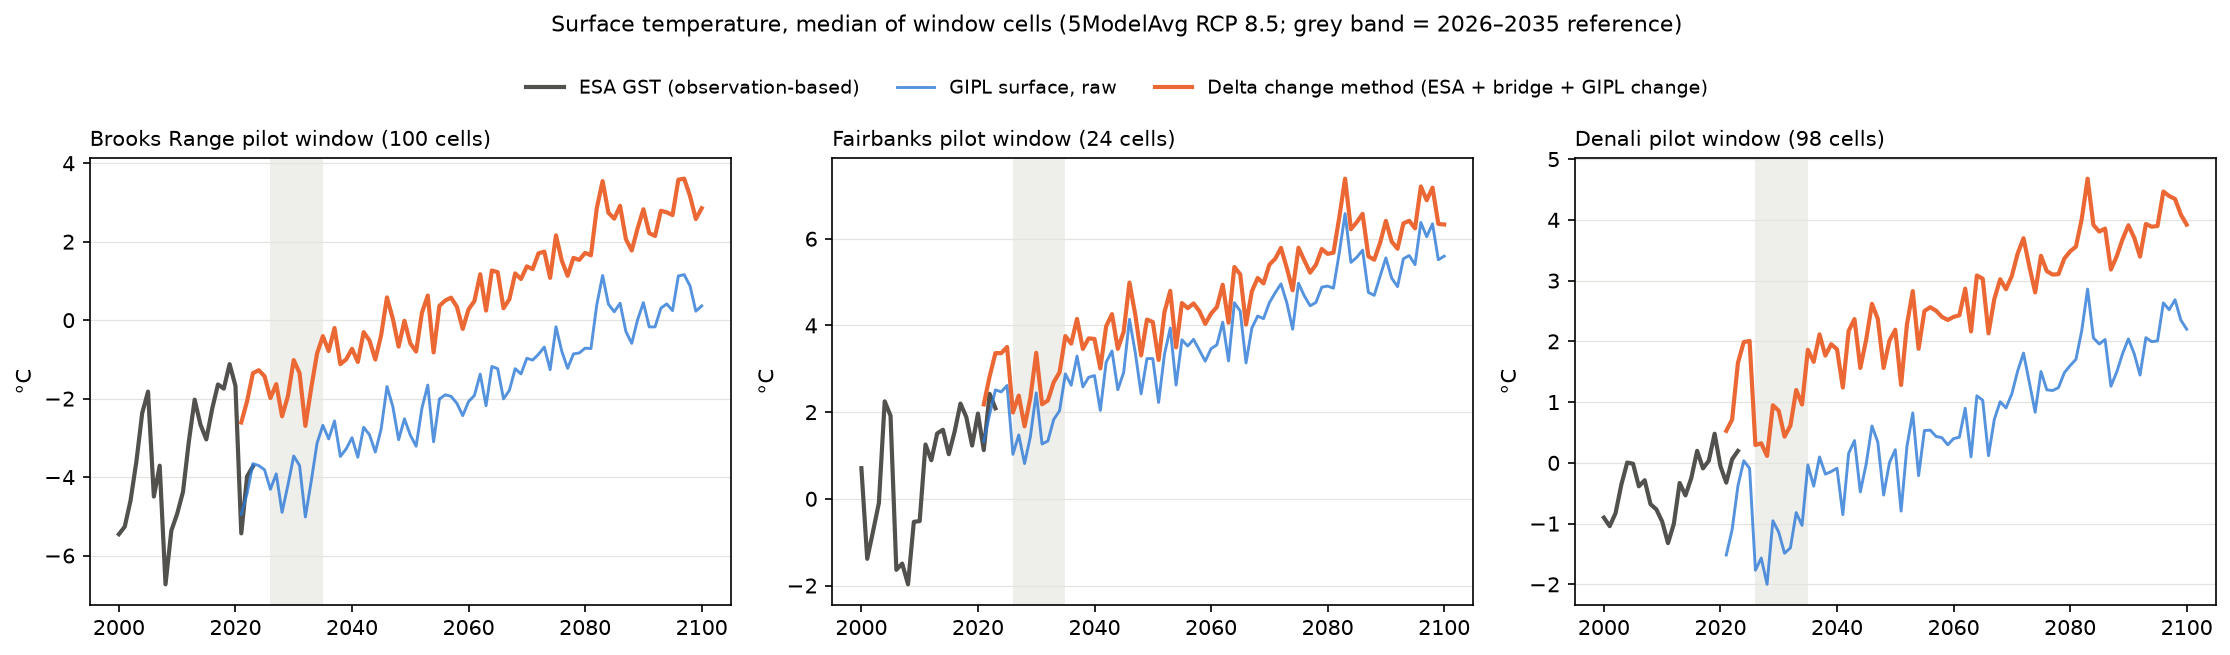
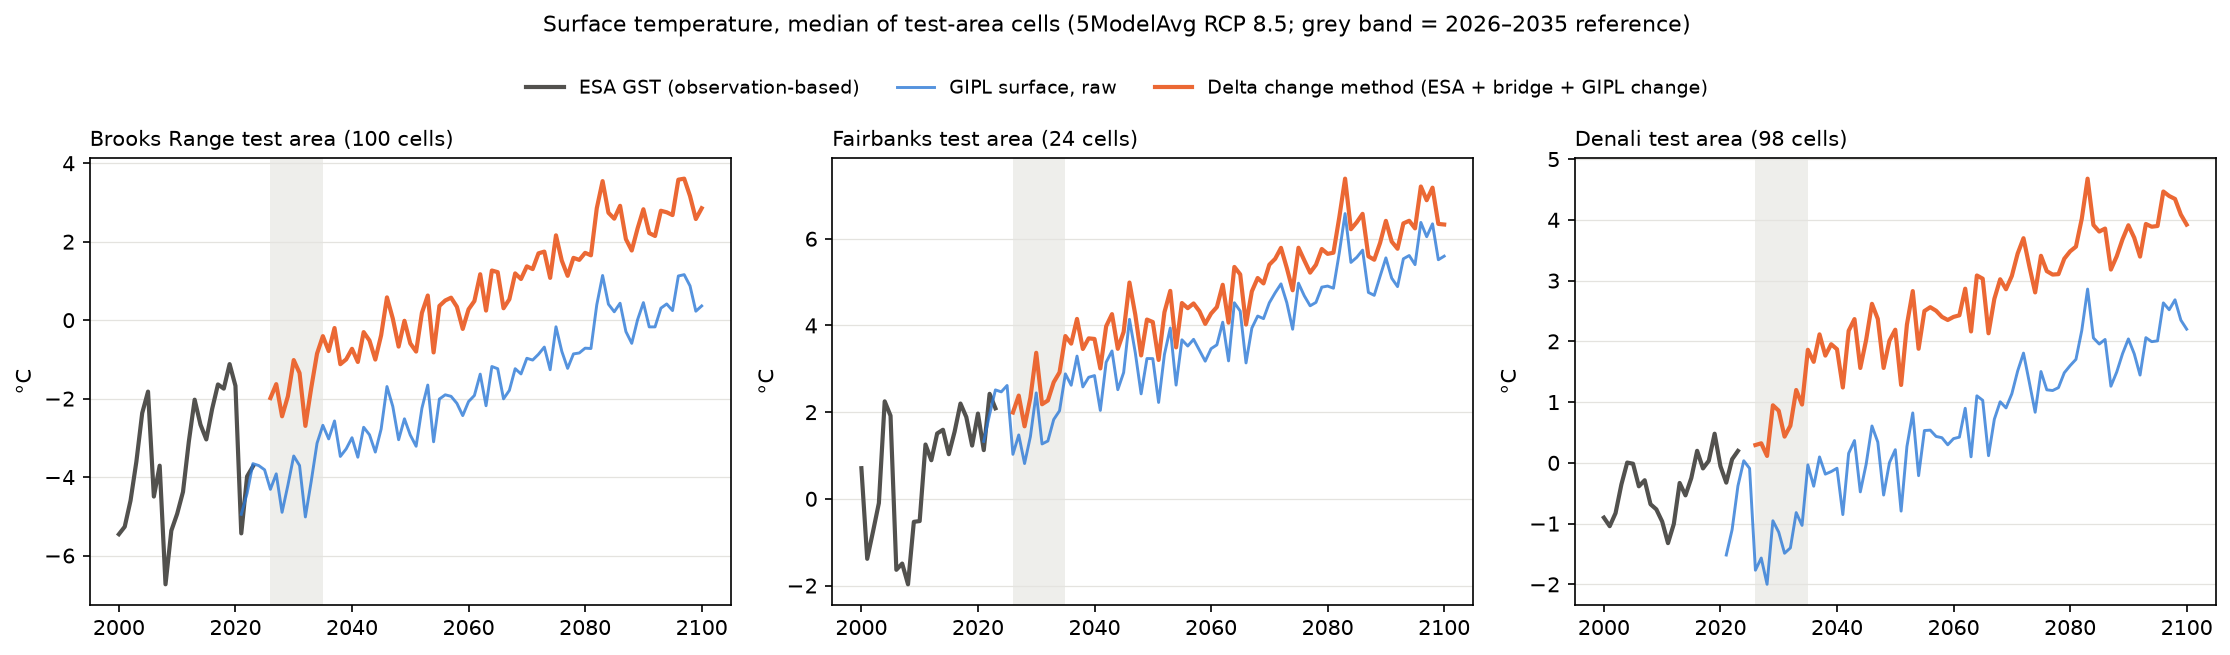
update gipl splicing doc

diff --git a/scripts/03_report/splice_schematic.py b/scripts/03_report/splice_schematic.py
@@ -1,0 +1,92 @@
+"""ESA_GIPL_SPLICING.md: schematic of the delta change method for one made-up cell (round numbers, same as the doc's
+worked example). ESA 2014-2023 level + bridge (expected warming to 2026-2035) = starting level for every later year;
+GIPL contributes only its change after 2026-2035; GIPL's own level is never used.
+Output: docs/figures/t3_delta_method_schematic.png
+"""
+import sys
+from pathlib import Path
+
+sys.path.insert(0, str(Path(__file__).resolve().parents[2] / "src"))
+
+import matplotlib
+
+from composite_indexing import config as C
+
+matplotlib.use("Agg")
+import matplotlib.pyplot as plt  # noqa: E402
+
+FIG = C.REPO / "docs/figures"
+INK, INK2, GRID = "#0b0b0b", "#52514e", "#e4e3df"
+ESA_C, GIPL_C, JOIN_C = "#52514e", "#2a78d6", "#eb6834"  # as in t3_splice_pilots.png
+ESA, BRIDGE = -2.0, 1.0
+GIPL = {(2026, 2035): -4.0, (2051, 2080): -1.5, (2081, 2100): -0.5}
+
+
+def fmt(v, sign=True):
+    return (f"{v:+.1f}" if sign else f"{v:.1f}").replace("-", "\u2212")
+
+
+def style(ax, ylim):
+    ax.axvspan(2021, 2026, color=GRID, alpha=0.7, lw=0)
+    ax.set_xlim(2010, 2100)
+    ax.set_ylim(*ylim)
+    ax.set_ylabel("°C")
+    ax.grid(axis="y", color=GRID, lw=0.6)
+    for s in ["top", "right"]:
+        ax.spines[s].set_visible(False)
+
+
+def change_arrow(ax, x, lo, hi, text):
+    ax.annotate("", xy=(x, hi), xytext=(x, lo), arrowprops=dict(arrowstyle="-|>", color=INK2, lw=1.2,
+                                                                 mutation_scale=12))
+    ax.text(x + 1.2, (lo + hi) / 2, text, ha="left", va="center", fontsize=9, color=INK2)
+
+
+def main():
+    base = GIPL[(2026, 2035)]
+    start = ESA + BRIDGE
+    fig, (top, bot) = plt.subplots(2, 1, figsize=(11, 8.6), sharex=True, gridspec_kw=dict(hspace=0.35))
+
+    # --- top: what we take from GIPL (its change only)
+    style(top, (-5.2, 0.6))
+    top.text(2023.5, -4.7, "GIPL start-up\n(not used)", ha="center", va="center", fontsize=8.5, color=INK2)
+    top.plot([2026, 2100], [base, base], color=GIPL_C, lw=1.2, ls=(0, (3, 3)), alpha=0.8)
+    for (y0, y1), v in GIPL.items():
+        top.plot([y0, y1], [v, v], color=GIPL_C, lw=5, solid_capstyle="butt")
+        top.text((y0 + y1) / 2, v + 0.2, f"{fmt(v)} °C", ha="center", va="bottom", fontsize=9, color=INK2)
+        if (y0, y1) != (2026, 2035):
+            change_arrow(top, y0 + 3, base, v, f"GIPL change\n{fmt(v - base)} °C")
+    top.text(2101, base, "GIPL's own 2026–2035\nlevel: NOT used", ha="left", va="center", fontsize=9, color=INK)
+    top.set_title("1. What we take from GIPL: only how much it warms after 2026–2035 (its levels are not used)",
+                  loc="left", fontsize=10.5)
+
+    # --- bottom: the joined record, built from ESA
+    style(bot, (-2.9, 3.4))
+    bot.plot([2014, 2023], [ESA, ESA], color=ESA_C, lw=5, solid_capstyle="butt")
+    bot.text(2018.5, ESA - 0.2, f"ESA 2014–2023\n{fmt(ESA)} °C", ha="center", va="top", fontsize=9, color=INK)
+    bot.annotate("", xy=(2026, start), xytext=(2023, ESA),
+                 arrowprops=dict(arrowstyle="-|>", color=INK, lw=1.4, mutation_scale=14))
+    bot.text(2024.5, start + 0.35, f"+ bridge {fmt(BRIDGE)} °C\n(expected warming,\n2014–2023 → 2026–2035)",
+             ha="center", va="bottom", fontsize=9, color=INK)
+    bot.plot([2026, 2100], [start, start], color=JOIN_C, lw=1.2, ls=(0, (3, 3)))
+    bot.text(2101, start, f"ESA + bridge = {fmt(start)} °C:\nthe starting level for\nevery later year",
+             ha="left", va="center", fontsize=9, color=INK)
+    for (y0, y1), v in GIPL.items():
+        joined = start + (v - base)
+        bot.plot([y0, y1], [joined, joined], color=JOIN_C, lw=5, solid_capstyle="butt")
+        if (y0, y1) == (2026, 2035):
+            continue
+        ch = v - base
+        change_arrow(bot, y0 + 3, start, joined, f"+ GIPL change\n{fmt(ch)} °C (from panel 1)")
+        bot.text((y0 + y1) / 2, joined + 0.2,
+                 f"{fmt(ESA)} + {fmt(BRIDGE, False)} + {fmt(ch, False)} = {fmt(joined)} °C",
+                 ha="center", va="bottom", fontsize=9, color=INK, weight="bold")
+    bot.set_title("2. The joined record: start from ESA, add the bridge, then add GIPL's change", loc="left",
+                  fontsize=10.5)
+    fig.suptitle("Delta change method, one example cell (round numbers)", x=0.125, ha="left", fontsize=12, y=0.97)
+    fig.savefig(FIG / "t3_delta_method_schematic.png", dpi=150, bbox_inches="tight")
+    plt.close(fig)
+
+
+if __name__ == "__main__":
+    main()

diff --git a/scripts/02_tests/t3_surface_splice.py b/scripts/02_tests/t3_surface_splice.py
@@ -10,7 +10,7 @@ removing expected warming): (a) none; (b) one statewide median offset; (c) regio
 (d) change-only = ESA GST + (GIPL era - GIPL 2026-2035): GIPL contributes only its change ("delta change method").
 Recommended form (D25): ESA GST 2014-2023 + bridge + GIPL change, where bridge = model MAAT 2026-2035 - 2014-2023 (the
 warming between the ESA and GIPL reference periods, which GIPL cannot supply because of its start-up drift).
-Plus a pilot-window time series (ESA annual 2000-2023, GIPL raw, GIPL change-only joined).
+Plus a test-area (pilot-window) time series (ESA annual 2000-2023, GIPL raw, GIPL change-only joined).
 Outputs: <data>/results/t3/splice_*.csv; docs/figures/t3_splice_{map,dist,pilots}.png
 """
 import sys
@@ -150,13 +150,14 @@ def plot_pilots():
         ax.plot(esa.year, np.nanmedian(esa.GST.values[m], 0), color=INK2, lw=2, label="ESA GST (observation-based)")
         ax.plot(years, np.nanmedian(g[m], 0), color="#2a78d6", lw=1.4, alpha=0.8, label="GIPL surface, raw")
         joined = e_rec[m, None] + bridge[m, None] + (g[m] - base[m, None])
+        joined[:, years < 2026] = np.nan  # GIPL start-up period (2021-2025): not used
         ax.plot(years, np.nanmedian(joined, 0), color="#eb6834", lw=2, label="Delta change method (ESA + bridge + GIPL change)")
         ax.axvspan(2026, 2035, color="#e4e3df", alpha=0.6, lw=0)
-        ax.set_title(f"{label} pilot window ({int(m.sum())} cells)", loc="left", fontsize=10)
+        ax.set_title(f"{label} test area ({int(m.sum())} cells)", loc="left", fontsize=10)
         ax.set_ylabel("°C")
     h, l = axs[0].get_legend_handles_labels()
     fig.legend(h, l, frameon=False, fontsize=9, loc="upper center", ncol=3, bbox_to_anchor=(0.5, 1.0))
-    fig.suptitle("Surface temperature, median of window cells (5ModelAvg RCP 8.5; grey band = 2026–2035 reference)",
+    fig.suptitle("Surface temperature, median of test-area cells (5ModelAvg RCP 8.5; grey band = 2026–2035 reference)",
                  fontsize=10.5, y=1.08)
     fig.tight_layout()
     fig.savefig(FIG / "t3_splice_pilots.png", dpi=150, bbox_inches="tight")

diff --git a/scripts/02_tests/t3_esa_gipl_continuity.py b/scripts/02_tests/t3_esa_gipl_continuity.py
@@ -137,7 +137,7 @@ def main():
     handles = [plt.Line2D([], [], color=ESA_C, lw=2, label="ESA CCI v5 (2000–2023)")] + [
         plt.Line2D([], [], color=c, lw=2, label=f"GIPL 5ModelAvg {s}") for s, c in RCP_C.items()]
     fig.legend(handles=handles, loc="upper center", ncol=3, frameon=False, bbox_to_anchor=(0.5, 1.0))
-    fig.text(0.5, -0.01, "Lines: median of the 100 cells in each 10 × 10 km window; bands: 10th–90th percentile.",
+    fig.text(0.5, -0.01, "Lines: median of the 100 cells in each 10 × 10 km test area; bands: 10th–90th percentile.",
              ha="center", color=INK2, fontsize=8)
     fig.tight_layout(rect=(0, 0, 1, 0.97))
     fig.savefig(FIG / "t3_continuity.png", dpi=150, bbox_inches="tight")

diff --git a/docs/ESA_GIPL_SPLICING.md b/docs/ESA_GIPL_SPLICING.md
@@ -17,7 +17,13 @@ fixes that cell by cell.
 - **Offset:** the difference between two datasets for the same place (GIPL − ESA).
 - **Expected warming:** the air warming that the climate models project between two periods. When the two datasets
   describe different years, part of their difference is simply climate change, not disagreement.
-- **Start-up drift:** a model's first years after it starts can drift as it settles in, before it is usable.
+- **Excess offset:** the offset minus the expected warming, i.e. the real disagreement between the datasets
+  (section 2). It is a diagnostic only: the recommended method does not use it.
+- **Bridge:** the expected warming from ESA's last decade (2014–2023) to GIPL's reference decade (2026–2035), about
+  +1 °C. It is the same number as the expected warming in section 2, used to carry ESA's level forward to GIPL's
+  reference decade, and it applies to every future year.
+- **Start-up period:** a model's first years after it starts, while it is still settling in; they do not behave like
+  the rest of the run and are not used.
 - **Spearman ρ:** whether two maps rank places in the same order, from −1 to +1 (see [CORRELATION.md](CORRELATION.md)).
 - **Delta change method:** future = today's observed level + the change the model projects. The model contributes
   only its change, not its level.
@@ -35,31 +41,65 @@ Cells: everywhere ESA shows permafrost and GIPL behaves normally (≈ 724,000 ce
 
 ---
 
-## 1. GIPL needs a few years to settle, and starts colder than ESA
+## 1. GIPL's first five years (2021–2025) are not usable
 
-![ESA CCI and GIPL at three pilot windows](figures/t3_continuity.png)
+![ESA CCI and GIPL at three test areas](figures/t3_continuity.png)
 
-Medians of 100 cells in each of three 10 × 10 km pilot windows (Brooks Range, Fairbanks, Denali).
-- **Start-up drift:** GIPL's first ~5 years drift strongly (Denali, 1 m: −4.4 °C in 2021 to about −1 °C by 2026).
-  We therefore use **2026–2035** as GIPL's reference period.
-- **Offset at 1 m:** where the two overlap (2021–2023), GIPL 1 m temperature is 1.4–1.8 °C colder than ESA.
+Medians of 100 cells in each of three 10 × 10 km test areas (Brooks Range, Fairbanks, Denali).
+- **At 1 m**, GIPL starts far from its later values and climbs for about five years (Denali, RCP 4.5: −4.4 °C in
+  2021, −1.1 °C in 2025).
+- **At the surface**, the first five years are out of line too: values rise until 2024–2025, then drop back by
+  0.6–1.9 °C in 2026 (Denali: −0.2 °C in 2025, −1.9 °C in 2026). From 2026 on, both depths follow a steady trend.
+- GIPL's set-up is not documented, so the cause is unknown. We treat **2021–2025 as a start-up period** and use
+  **2026–2035** as GIPL's reference period.
+- **This rules out a direct comparison with ESA:** the only years the two datasets share (2021–2023) fall inside
+  GIPL's start-up period. Section 2 compares them fairly instead: GIPL 2026–2035 against ESA 2014–2023, after allowing
+  for the warming expected between those periods.
 
 ## 2. GIPL and ESA levels do not match, and not in a fixable way
+
+### Comparing two different decades
+
+The two records share no usable years (section 1): ESA ends in 2023 and GIPL is usable from 2026. So we compare
+ESA's last decade (**2014–2023**) with GIPL's first usable decade (**2026–2035**). Their midpoints are 12 years apart.
+
+The climate warms over those 12 years. **Even if the two datasets agreed perfectly, GIPL's decade should be warmer than
+ESA's**, by about as much as the climate warmed in between. A straight comparison would mix two things: real
+disagreement between the datasets, and climate change between the two decades. To separate them, we estimate the
+warming between the decades and subtract it:
+
+> **disagreement ("excess offset") = (GIPL 2026–2035 − ESA 2014–2023) − expected warming**
+
+- **Expected warming:** for each cell, the air warming from 2014–2023 to 2026–2035 in SNAP's downscaled climate
+  projections (5-model average, same scenario). About **+1.0 °C** statewide; 80 % of cells fall between +0.9 and
+  +1.2 °C.
+- **Worked example (statewide median, RCP 8.5):** GIPL is 0.2 °C *colder* than ESA. It should be about 1.0 °C
+  *warmer*, so the disagreement is about **1.2 °C**.
+
+Why this is a fair adjustment:
+- **It only removes what climate change would produce.** It does not tune GIPL to match ESA.
+- **It is small and nearly the same everywhere**, so it moves all cells by about the same amount. It cannot create
+  the large cell-to-cell differences below, and it does not affect ρ, which compares the two maps as delivered.
+- **It assumes the ground surface warms about as much as the air** over these 12 years. That is not exact (snow and
+  vegetation sit in between), but over later decades GIPL's own surface warming stays within a few tenths of a degree
+  of air warming on average ([PTI.md](PTI.md), section 2). An error of ±0.3 °C would still leave GIPL 0.9–1.5 °C
+  colder than expected.
+- **Skipping the adjustment would hide most of the problem:** the raw gap (0.2 °C) looks small only because a decade
+  of warming happens to cancel most of GIPL's cold bias.
+
+### Result
 
 ![ESA vs GIPL, same cells](figures/t3_splice_scatter.png)
 
 ![Excess offset map and by region](figures/t3_splice_map.png)
 
-We compare GIPL 2026–2035 with ESA 2014–2023 and take out the ~1 °C of air warming the same climate models project
-between those periods. What is left is disagreement between the two datasets ("excess offset"):
-
-| Region | Cells | ESA vs GIPL, ρ | Expected warming | Excess offset, median | 10th – 90th percentile |
-|---|---|---|---|---|---|
-| Statewide | 724,326 | 0.85 | +1.0 °C | **−1.2 °C** | −2.8 to +0.5 °C |
-| Arctic | 317,000 | 0.82 | +1.1 °C | −1.2 °C | −3.0 to +0.6 °C |
-| Interior | 279,692 | **0.43** | +0.9 °C | −1.2 °C | −2.7 to +0.7 °C |
-| West | 101,947 | 0.75 | +1.0 °C | −1.4 °C | −2.4 to −0.2 °C |
-| South | 25,654 | **0.34** | +0.9 °C | −0.4 °C | −1.8 to +1.7 °C |
+| Region | Cells | ESA vs GIPL, ρ | GIPL − ESA, as delivered | Expected warming | Excess offset, median | 10th – 90th percentile |
+|---|---|---|---|---|---|---|
+| Statewide | 724,326 | 0.85 | −0.2 °C | +1.0 °C | **−1.2 °C** | −2.8 to +0.5 °C |
+| Arctic | 317,000 | 0.82 | 0.0 °C | +1.1 °C | −1.2 °C | −3.0 to +0.6 °C |
+| Interior | 279,692 | **0.43** | −0.3 °C | +0.9 °C | −1.2 °C | −2.7 to +0.7 °C |
+| West | 101,947 | 0.75 | −0.4 °C | +1.0 °C | −1.4 °C | −2.4 to −0.2 °C |
+| South | 25,654 | **0.34** | +0.5 °C | +0.9 °C | −0.4 °C | −1.8 to +1.7 °C |
 
 RCP 8.5 shown; RCP 4.5 is within 0.1 °C.
 - GIPL is about **1.2 °C colder** than ESA would lead us to expect.
@@ -68,20 +108,52 @@ RCP 8.5 shown; RCP 4.5 is within 0.1 °C.
 
 ## 3. Join methods compared
 
-The test: how big is the jump, cell by cell, between ESA's last decade and the joined value for 2026–2035, after
-allowing for expected warming? (90th percentile of cells, statewide, RCP 8.5.)
+To build one record from today into the future, GIPL's values have to be put on ESA's footing. We tried four ways:
 
-| Method | What it does | Jump at the join |
+| Method | What it does to each cell's GIPL values (RCP 8.5) |
+|---|---|
+| No correction | Uses GIPL's temperatures as delivered. |
+| Statewide offset | Adds the same number to every cell: GIPL's statewide median disagreement, **+1.2 °C**. |
+| Regional offsets | Adds one number per region, that region's median disagreement: **Arctic +1.2, Interior +1.2, West +1.35, South +0.35 °C**. |
+| Delta change method | Never uses GIPL's level. For each cell: (1) start from ESA's 2014–2023 level; (2) add the bridge (the expected warming from 2014–2023 to 2026–2035, ≈ +1 °C), giving the cell's estimated 2026–2035 level; (3) for any later year, add how much GIPL warms after 2026–2035. Steps 1–2 are the same for every year; only step 3 changes. |
+
+**The delta change method, step by step.** An example cell with round numbers: ESA −2.0 °C (2014–2023), bridge
++1.0 °C, and GIPL −4.0 °C in 2026–2035 and −1.5 °C in 2051–2080 (a change of +2.5 °C). Joined 2051–2080 value:
+−2.0 + 1.0 + 2.5 = **+1.5 °C**. GIPL's own −1.5 °C is never used, so its cold bias drops out; only the size of its
+warming carries over.
+
+![The delta change method for one example cell](figures/t3_delta_method_schematic.png)
+
+*Panel 1: from GIPL we take only how much it warms after 2026–2035 (+2.5 and +3.5 °C here); its own temperatures,
+including −4.0 °C for 2026–2035, are not used. Panel 2: the joined record starts from ESA (−2.0 °C), adds the bridge
+to reach an estimated 2026–2035 level (−1.0 °C, the starting point for every later year), then adds GIPL's warming
+from panel 1. The bridge is applied to ESA, never to GIPL.*
+
+**The test:** if a join works, each cell's joined value for 2026–2035 should equal its ESA value plus the expected
+warming. Any difference is an artificial step in the record at the join (a "jump") that is not climate. With an
+offset, the jump is each cell's own disagreement minus the number added: the typical cell is fixed, but cells far from
+the typical disagreement are not.
+
+| Method | Jump, typical cell (median) | Jump, worst 10 % of cells (90th percentile) |
 |---|---|---|
-| No correction | use GIPL as delivered | 2.8 °C |
-| Statewide offset | shift GIPL by one number for all of Alaska | 2.2 °C |
-| Regional offsets | shift GIPL by one number per region | 2.2 °C |
-| **Delta change method** | ESA level + projected change | **0 °C** (by construction) |
+| No correction | 1.3 °C | 2.8 °C |
+| Statewide offset | 0.8 °C | 2.2 °C |
+| Regional offsets | 0.8 °C | 2.2 °C |
+| **Delta change method** | **0 °C** | **0 °C** |
 
-![Pilot windows: ESA, raw GIPL and the delta change method](figures/t3_splice_pilots.png)
+Statewide, RCP 8.5 (RCP 4.5 within 0.05 °C).
+- **One number per region barely helps**, because the regions' typical disagreements are nearly the same (about
+  −1.2 °C; only the South differs). The problem is the spread *within* each region, which no single number can fix.
+- **Why the jump matters:** a jump goes straight into a cell's projected warming. The index's warming bands are 1 °C
+  wide ([PTI.md](PTI.md)), so a 2 °C artificial jump in one cell in ten would move those cells by up to two classes.
+- **The delta change method has no jump by construction**, because it never uses GIPL's level. That is not a free
+  pass: it assumes GIPL's *changes* are right even where its *levels* are off, which cannot be tested (see Caveats).
 
-Raw GIPL (blue) starts below ESA (grey) in the Brooks Range and Denali windows; the delta change method (orange)
-continues ESA's record and follows GIPL's rise.
+![Test areas: ESA, raw GIPL and the delta change method](figures/t3_splice_pilots.png)
+
+Raw GIPL (blue) runs below ESA (grey) in the Brooks Range and Denali test areas. The delta change method (orange,
+from 2026) starts at ESA's level plus the bridge and then follows GIPL's rise. GIPL's start-up years (2021–2025) are
+shown in blue for reference only. The Fairbanks test area has fewer cells because GIPL's stuck cells are excluded.
 
 ---
 
@@ -93,7 +165,7 @@ For each 1 km cell, model and scenario:
 >
 > - **ESA GST 2014–2023:** today's observation-based level.
 > - **bridge:** the air warming the same climate models project from 2014–2023 to 2026–2035 (≈ +1 °C). GIPL cannot
->   supply this itself because of its start-up drift.
+>   supply this itself because of its start-up period.
 > - **GIPL change:** GIPL surface temperature in the era minus GIPL 2026–2035.
 
 - **What we keep from GIPL:** how much the ground surface warms, which is the part that adds information beyond air
@@ -112,5 +184,5 @@ For each 1 km cell, model and scenario:
 
 <sub>Methods: 1 km GIPL grid; ESA sampled at cell centres; air temperature = SNAP 2 km 5-model average (parent cell).
 Jumps measured after removing the model air warming between the two reference periods. Scripts:
-`scripts/02_tests/t3_esa_gipl_continuity.py` (pilot windows), `scripts/02_tests/t3_surface_splice.py` (statewide);
+`scripts/02_tests/t3_esa_gipl_continuity.py` (test areas), `scripts/02_tests/t3_surface_splice.py` (statewide), `scripts/03_report/splice_schematic.py` (example-cell schematic);
 tables in `<data>/results/t3/splice_methods.csv`.</sub>

diff --git a/docs/GIPL_ISSUE.md b/docs/GIPL_ISSUE.md
@@ -147,7 +147,7 @@ Stuck cells lean towards black-spruce forest and woody wetlands, but most of tha
 - **No documentation** exists for this 1 km CMIP5 run. The only method reference (Marchenko, Romanovsky & Tipenko
   2008, NICOP) describes an earlier 0.5° run. The cause therefore cannot be identified or verified without more information.
 
-Other GIPL behaviour seen in the same tests (start-up drift, offsets from ESA CCI) is described in
+Other GIPL behaviour seen in the same tests (start-up period, offsets from ESA CCI) is described in
 [ESA_GIPL_SPLICING.md](ESA_GIPL_SPLICING.md).
 
 ---
